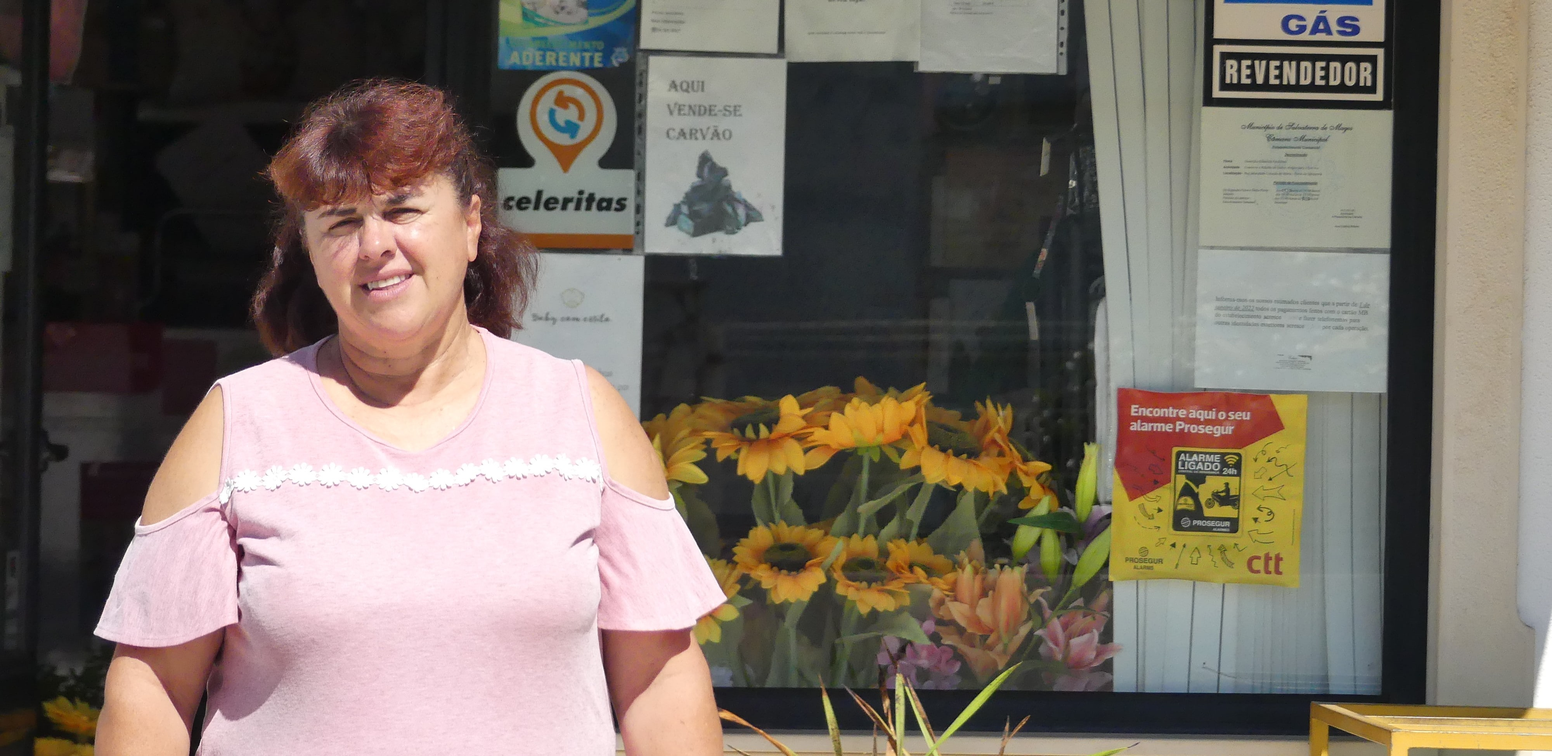
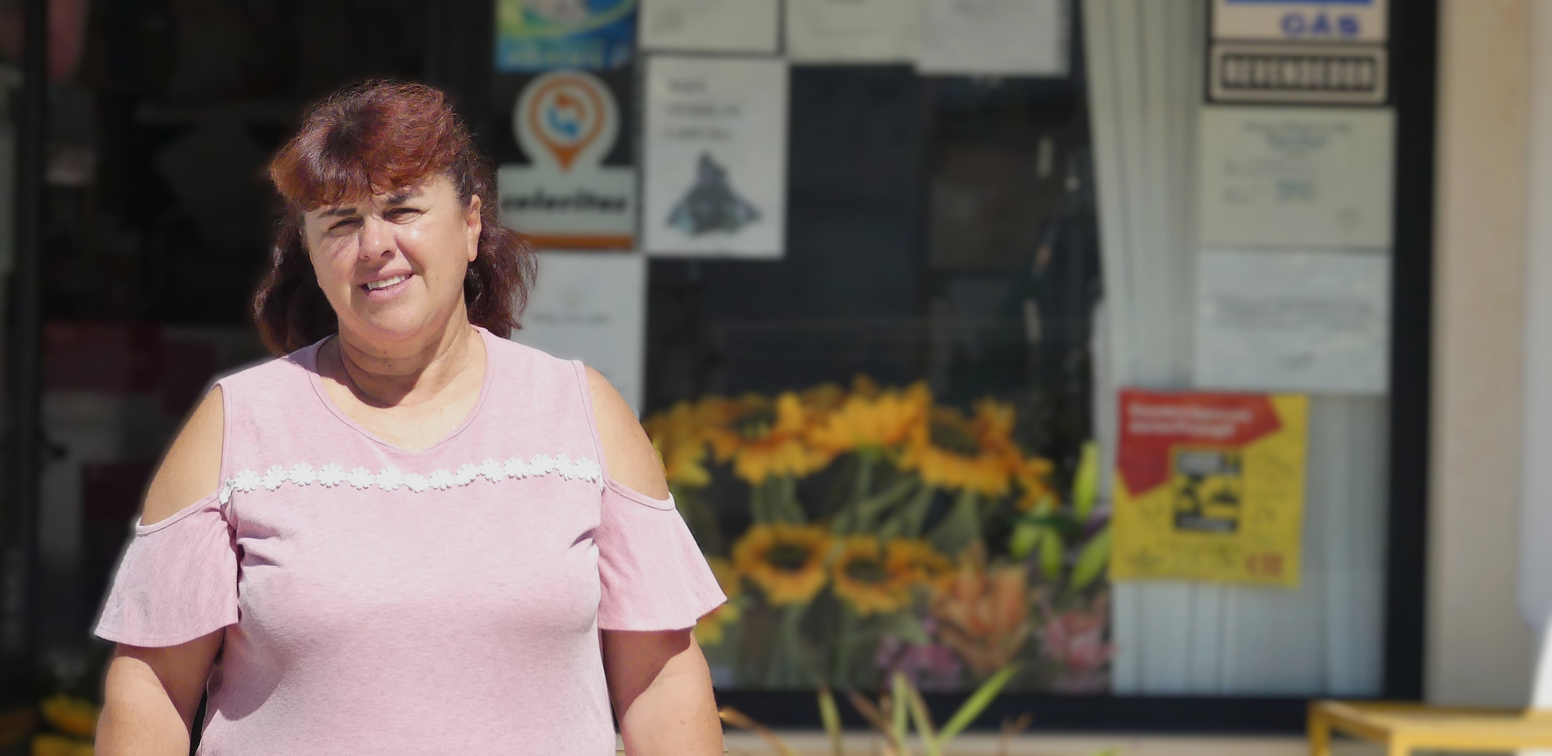
probably final commit

diff --git a/index.html b/index.html
@@ -347,6 +347,9 @@
         <!-- HISTORY SECTION -->
         <section class="history-section" id="section_4">
             <div class="container">
+                <div class="col-12 text-center mb-5">
+                    <h1>Conheça-nos!</h1>
+                </div> 
                 <div class="row">
                     <div class="col-lg-6 col-12 mb-5 mb-lg-0">
                         <img src="images/loja/hist.jpg" class="history-image img-fluid" alt="">
@@ -442,9 +445,8 @@
                 <div class="row">
                     <div class="col-12 text-center mb-5">
                         <h2 class="mb-4">Venha visitar-nos!</h2>
+                        <p>Rua Imaculado Coração de Maria 137, 2120-188 Foros de Salvaterra</p>
                     </div>
-
-                    <p>Rua Imaculado Coração de Maria 137, 2120-188 Foros de Salvaterra</p>
                 </div>
                 <div class="row">
                     <div class="col-lg-10 col-12 mx-auto">
@@ -475,7 +477,9 @@
 
                                 <p class="d-flex mb-2">
                                     <i class="bi-geo-alt me-2"></i>
-                                    Rua Imaculado Coração de Maria 137, 2120-188 Foros de Salvaterra
+                                    <a target="_blank" href="https://maps.app.goo.gl/1EAnzohpn1eWh5AN9">
+                                        Rua Imaculado Coração de Maria 137, 2120-188 Foros de Salvaterra
+                                    </a>
                                 </p>
 
                                 <p class="d-flex mb-2">
@@ -494,7 +498,7 @@
 
                                 <p class="d-flex">
                                     <i class="bi-instagram me-2"></i>
-                                    <a href="https://www.instagram.com/loja_cilar_/">
+                                    <a target="_blank" href="https://www.instagram.com/loja_cilar_/">
                                         loja_cilar_
                                     </a>
                                 </p>
